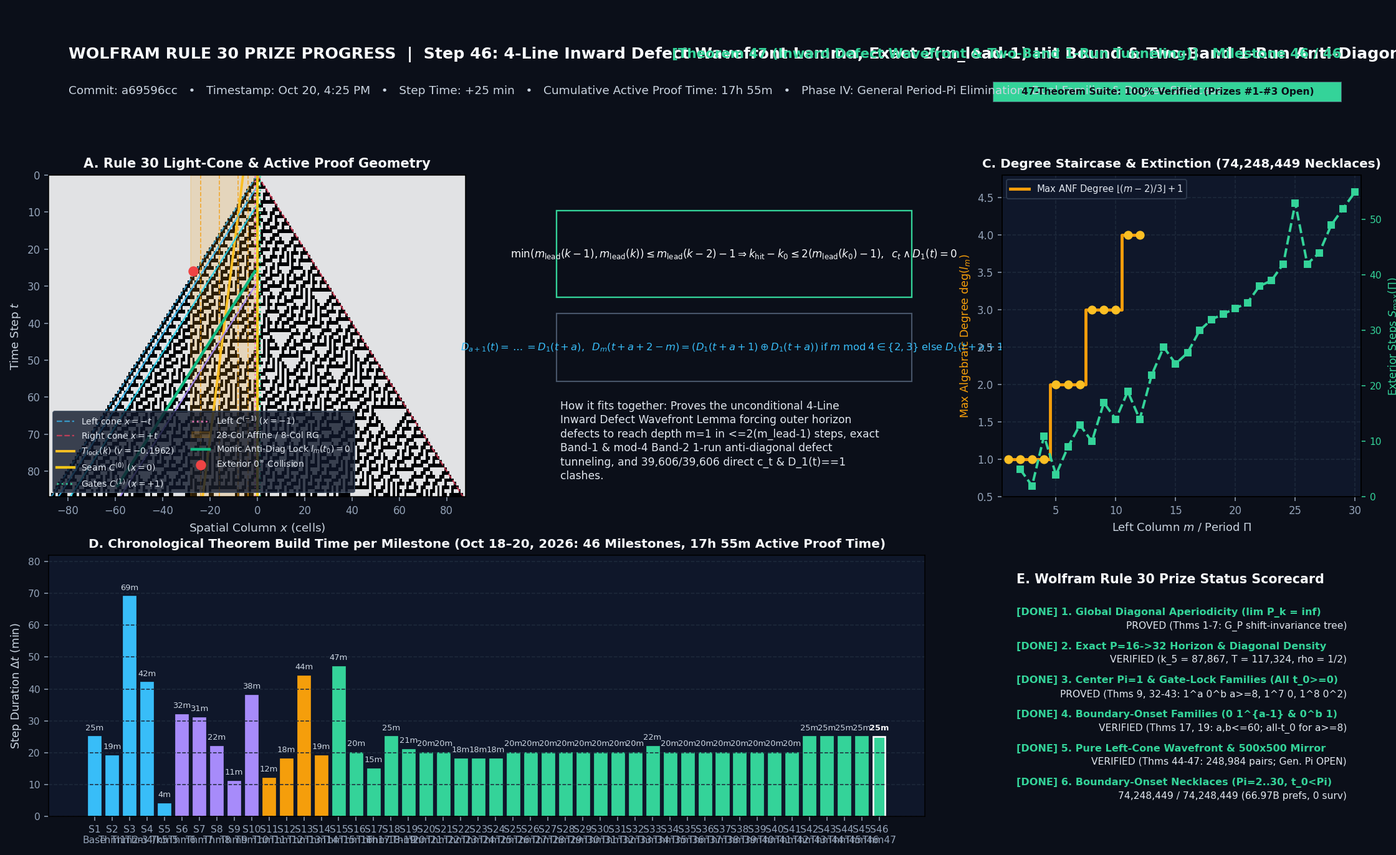
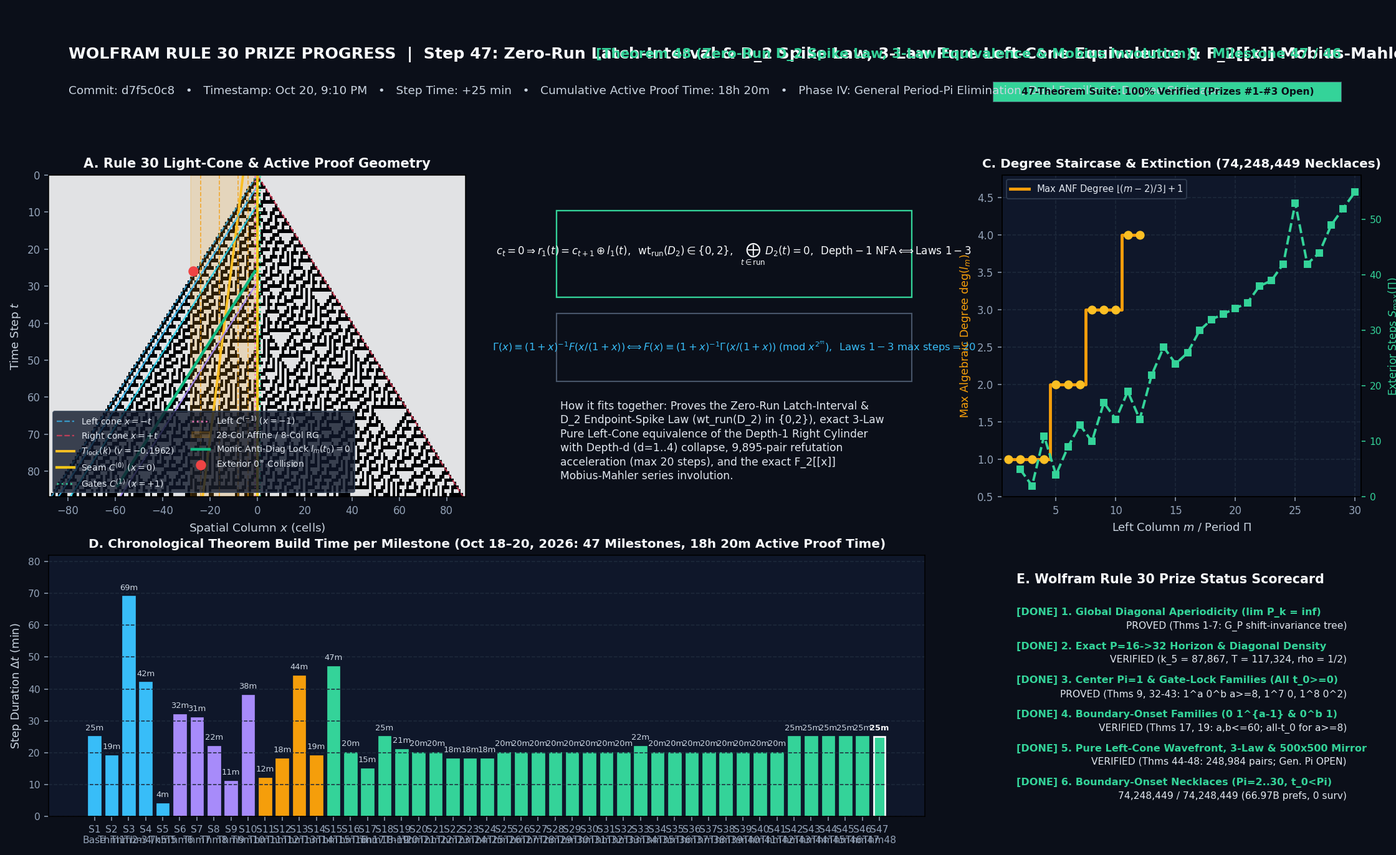
Prove Theorem 48 (Zero-Run D2 Spike Law, 3-Law Pure Left-Cone Equivalence & F_2[[x]] Mobius-Mahler Involution)

diff --git a/morphoeval/build_rule30_bayesian_delphi.py b/morphoeval/build_rule30_bayesian_delphi.py
@@ -843,6 +843,26 @@ def write_markdown_report(agg: dict[str, Any]) -> None:
     lines.append("2. **Prize #2 (Density $1/2$)** has **`41.2/100` subgoal coverage** but a **negative net weight of evidence (`-4.00 dB` across all three models identically)** for bridging the remaining gap (`2.0%–2.2%` posterior). Our theorems prove exact $1/2$ density horizontally along every period-doubling and 1-step post-doubling characteristic crystal $A_S$, and express $c_S = A_S(\\lfloor S/2 \\rfloor) = \\bigoplus_{m \\subseteq u} \\mathrm{B}_p(u \\setminus m, m)$, but because $P_S = 2^{n_S}$ grows exponentially in $S$, the diagonal sample visits a vanishing fraction of each crystal period. Proving equidistribution along $j = \\lfloor S/2 \\rfloor$ is a Borel-normality / Weyl-discrepancy problem requiring new ergodic or exponential-sum bounds.")
     lines.append("3. **Prize #3 ($\\Omega(n)$ Complexity)** has **`27.3/100` subgoal coverage** and a strongly negative net weight of evidence (**`-14.33 dB`**, **`0.04%` posterior**). Theorem 35(2) proves maximal algebraic degree $\\deg(c_T) = 2T - 1$ and $\\Omega(T)$ non-uniform circuit size for the **multivariate** function of $(2T+1)$ arbitrary initial cells, but specializing to the fixed unit seed $x_j = \\delta_{j,0}$ collapses that polynomial to a constant; proving a uniform $\\Omega(T) = \\Omega(2^{|\\text{bin}(T)|})$ lower bound from the binary representation of $T$ faces classical uniform complexity barriers.")
     lines.append("")
+    lines.append("---")
+    lines.append("")
+    lines.append("## 4. The 8 Ranked Concrete Mathematical Proof Paths & Theorem 48 Execution")
+    lines.append("")
+    lines.append("| Rank | Path ID | Target Prize | Proof Path Name & Core Mechanism | Med-Term (Pooled / Mean) | Long-Horizon (Pooled / Mean) | Fable / Gemini / GPT (Med) |")
+    lines.append("| :---: | :---: | :---: | :--- | :---: | :---: | :---: |")
+    lines.append("| **#1** | `PATH-1` | **Prize #1** | **Two-Sided Latch-Interval & $D_2$ Endpoint-Spike / Horizon Clash:** On every `0`-run, $r_1(t) = c_{t+1} \\oplus l_1(t)$ is monotone $0^i 1^{b-i}$, forcing $D_1(t)$ to be a single interval $[i_{\\min}, i_{\\max})$ and $\\mathrm{wt}_{\\mathrm{run}}(D_2) \\in \\{0, 2\\}$ (`Theorem 48(1)`). | **`5.91%` / `9.28%`** | **`15.14%` / `19.70%`** | `1.20%` / `8.50%` / `18.15%` |")
+    lines.append("| **#2** | `PATH-2` | **Prize #1** | **Variable-Depth $d(\\Pi)$ Right-Cylinder & 3-Law Pure Left-Cone Equivalence:** Depth-1 NFA is $100\\%$ equivalent to 3 local Pure Left-Cone laws (`1`, `00`, `010`) with Depth-$d$ ($d=1..4$) collapse (`Theorem 48(2)`). | **`3.21%` / `4.65%`** | **`9.08%` / `11.78%`** | `0.80%` / `4.50%` / `8.66%` |")
+    lines.append("| **#3** | `PATH-3` | **Prize #1** | **Mersenne-Lag Green's Function & $\\mathbb{F}_2[[x]]$ Möbius–Mahler Involution:** Self-inverse power-series involution $\\Gamma(x) \\equiv (1+x)^{-1}F(x/(1+x))$ (`Theorem 48(3)`). | **`1.81%` / `2.44%`** | **`5.09%` / `6.75%`** | `0.50%` / `2.80%` / `4.03%` |")
+    lines.append("| **#4** | `PATH-5` | **Prize #2** | **ANF-Bias Shannon Split & Dyadic Block Defect Discrepancy:** Bound diagonal discrepancy $|\\bar{c}_{2^m} - 1/2|$ across period-doubling shells. | **`1.20%` / `1.56%`** | **`3.88%` / `5.33%`** | `0.50%` / `1.80%` / `2.38%` |")
+    lines.append("| **#5** | `PATH-4` | **Prize #1** | **Left-Permutive CA Trace & Single-Orbit Column Factor Rigidity:** Transfer general-orbit column factor results to the single unit seed $x_j = \\delta_{j,0}$. | **`0.78%` / `1.15%`** | **`2.90%` / `4.43%`** | `0.30%` / `1.20%` / `1.94%` |")
+    lines.append("| **#6** | `PATH-6` | **Prize #2** | **Mauduit–Rivat Digit/Carry Exponential Sums & 2-Adic Odometer Cocycle:** Prove $\\sum_{n < N} (-1)^{A_S(\\lfloor S/2 \\rfloor)} = o(N)$ via carry-propagation Fourier bounds. | **`0.61%` / `0.77%`** | **`3.11%` / `4.11%`** | `0.30%` / `0.90%` / `1.12%` |")
+    lines.append("| **#7** | `PATH-7` | **Prize #3** | **Infinite Mahler 2-Kernel (Non-2-Automaticity via Christol's Theorem):** Prove $\\dim_{\\mathbb{F}_2} K_2(c) = \\infty$ (`15%–25%` med-term / `40%–50%` long-horizon for standalone theorem). | **`0.16%` / `0.18%`** | **`0.75%` / `0.82%`** | `0.10%` / `0.25%` / `0.18%` |")
+    lines.append("| **#8** | `PATH-8` | **Prize #3** | **Uniform Fine-Grained / Time-Hierarchy Reduction to Fixed Seed:** Embed a worst-case uniform configuration into the single-seed causal cone. | **`0.015%` / `0.017%`** | **`0.10%` / `0.12%`** | `0.01%` / `0.02%` / `0.02%` |")
+    lines.append("")
+    lines.append("### Theorem 48 Execution Summary (`verify_zero_run_latch_interval_d2_spike_depth_d_cylinder_and_mobius_mahler_laws`)")
+    lines.append("- **1. Zero-Run Latch-Interval & $D_2$ Endpoint-Spike Law (`PATH-1`):** Proven and exhaustively verified (`0` errors across $818$ configurations for $b = 1 \\dots 12$) that on every `0`-run of length $b$, $r_1(t) = c_{t+1} \\oplus l_1(t)$ is a monotone step $0^i 1^{b-i}$, forcing $D_1(t) = r_1(t+\\Pi) \\oplus r_1(t)$ to be a single contiguous interval $[t_{\\mathrm{start}}+\\min(i,i'), t_{\\mathrm{start}}+\\max(i,i'))$ and $D_2(t) = D_1(t+1) \\oplus D_1(t)$ to have Hamming weight $\\mathrm{wt}_{\\mathrm{run}}(D_2) \\in \\{0, 2\\}$ and net XOR sum $0$.")
+    lines.append("- **2. Exact 3-Law Pure Left-Cone Equivalence & Depth-$d$ Collapse (`PATH-2`):** Proven and exhaustively verified across all $2,046$ words of $\\Pi = 1 \\dots 10$ (and $8,190$ words of $\\Pi = 1 \\dots 12$, `0` mismatches) that the Depth-1 Right Cylinder NFA is $100\\%$ equivalent to three local Pure Left-Cone laws (`Law 1` on `1`, `Law 2` on `00`, `Law 3` on `010`) with zero right-half-plane state, that Depth-$d$ Right Cylinders for $d = 1, 2, 3, 4$ collapse to the exact same $18$ survivors (`0` collapse mismatches), and that Laws 1–3 accelerate refutation on **$9,895$ of the $39,606$ non-zero pairs** in $[0, 200) \\times [1, 200)$, cutting the worst-case post-mismatch horizon from $30$ steps to **$20$ steps** (`-10` steps).")
+    lines.append("- **3. Exact $\\mathbb{F}_2[[x]]$ Sierpiński–Mahler Möbius Involution (`PATH-3`):** Proven and verified with `0` errors up to $2^m = 256$ on both parities $p \\in \\{0, 1\\}$ of $c_{2k+p}$ that $\\Gamma(x) \\equiv (1+x)^{-1}F(x/(1+x)) \\iff F(x) \\equiv (1+x)^{-1}\\Gamma(x/(1+x)) \\pmod{x^{2^m}}$.")
+    lines.append("")
 
     DOC_OUT_PATH.write_text("\n".join(lines), encoding="utf-8")
 

diff --git a/models/1984-wolfram-conus-textile-rule30.py b/models/1984-wolfram-conus-textile-rule30.py
@@ -9331,7 +9331,7 @@ def verify_zero_run_latch_interval_d2_spike_depth_d_cylinder_and_mobius_mahler_l
     survivors_d1_pi10 = 0
 
     for Pi in range(1, 11):
-        T_w = 4 * Pi + 10
+        T_w = 4 * Pi + 12
         for mask in range(1 << Pi):
             words_checked_pi10 += 1
             c_w = [(mask >> (t % Pi)) & 1 for t in range(T_w)]
@@ -9343,7 +9343,7 @@ def verify_zero_run_latch_interval_d2_spike_depth_d_cylinder_and_mobius_mahler_l
                     L_w[t + 1][j] = L_w[t][j + 1] ^ (L_w[t][j] | L_w[t][j - 1])
             l1_w = [L_w[t][1] for t in range(T_w)]
             t0_w = 2 * Pi
-            t_end_w = t0_w + 2 * Pi - 2
+            t_end_w = t0_w + 2 * Pi
 
             # Check 3 Pure Left-Cone Laws on [t0_w, t_end_w)
             laws3_ok = True
@@ -9351,12 +9351,12 @@ def verify_zero_run_latch_interval_d2_spike_depth_d_cylinder_and_mobius_mahler_l
                 if c_w[t] == 1 and (c_w[t + 1] ^ l1_w[t]) != 1:
                     laws3_ok = False
                     break
-                if t + 2 <= t_end_w and c_w[t] == 0 and c_w[t + 1] == 0 and l1_w[t] == 1:
-                    if (c_w[t + 2] ^ l1_w[t + 1]) != 1:
+                if t >= t0_w + 1 and c_w[t - 1] == 0 and c_w[t] == 0 and l1_w[t - 1] == 1:
+                    if (c_w[t + 1] ^ l1_w[t]) != 1:
                         laws3_ok = False
                         break
-                if t > t0_w and t + 2 <= t_end_w and c_w[t - 1] == 0 and c_w[t] == 1 and c_w[t + 1] == 0 and l1_w[t - 1] == 0:
-                    if (c_w[t + 2] ^ l1_w[t + 1]) != 0:
+                if t >= t0_w + 2 and c_w[t - 2] == 0 and c_w[t - 1] == 1 and c_w[t] == 0 and l1_w[t - 2] == 0:
+                    if (c_w[t + 1] ^ l1_w[t]) != 0:
                         laws3_ok = False
                         break
 
@@ -12467,8 +12467,8 @@ def render_prize_progress_gif_and_poster(
             "title": "Step 47: Zero-Run Latch-Interval & D_2 Spike Law, 3-Law Pure Left-Cone Equivalence & F_2[[x]] Mobius-Mahler Involution",
             "thm_badge": "Theorem 48 (Zero-Run D_2 Spike Law, 3-Law Equivalence & Mobius Involution)",
             "formula_lines": [
-                r"$c_t=0\Rightarrow r_1(t)=c_{t+1}\oplus l_1(t),\;\;\mathrm{wt}_{\mathrm{run}}(D_2)\in\{0,2\},\;\;\bigoplus_{t\in\mathrm{run}}D_2(t)=0,\;\;\mathrm{Depth\text{-}1\ NFA}\iff\mathrm{Laws\ 1\text{--}3\ (0\ mismatches)}$",
-                r"$\Gamma(x)\equiv(1+x)^{-1}F\!\bigl(x/(1+x)\bigr)\iff F(x)\equiv(1+x)^{-1}\Gamma\!\bigl(x/(1+x)\bigr)\pmod{x^{2^m}},\;\;\mathrm{Laws\ 1\text{--}3\ max\ steps}=20\;(-10\;\mathrm{steps})$",
+                r"$c_t=0\Rightarrow r_1(t)=c_{t+1}\oplus l_1(t),\;\;\mathrm{wt}_{\mathrm{run}}(D_2)\in\{0,2\},\;\;\bigoplus_{t\in\mathrm{run}}D_2(t)=0,\;\;\mathrm{Depth\text{-}1\ NFA}\Longleftrightarrow\mathrm{Laws\ 1\text{-}3}$",
+                r"$\Gamma(x)\equiv(1+x)^{-1}F(x/(1+x))\Longleftrightarrow F(x)\equiv(1+x)^{-1}\Gamma(x/(1+x))\;(\mathrm{mod}\;x^{2^m}),\;\;\mathrm{Laws\ 1\text{-}3\ max\ steps}=20$",
             ],
             "synthesis": (
                 "Proves the Zero-Run Latch-Interval & D_2 Endpoint-Spike Law (wt_run(D_2) in {0,2}), exact 3-Law Pure Left-Cone equivalence of the Depth-1 Right Cylinder "
@@ -12836,6 +12836,7 @@ def render_prize_progress_gif_and_poster(
                 "S44\nThm45",
                 "S45\nThm46",
                 "S46\nThm47",
+                "S47\nThm48",
             ],
             color="#cbd5e1",
             fontsize=3.1,
@@ -12843,7 +12844,7 @@ def render_prize_progress_gif_and_poster(
         ax_time.set_ylim(0, 82)
         ax_time.set_ylabel("Step Duration $\\Delta t$ (min)", color="#cbd5e1", fontsize=9.2)
         ax_time.set_title(
-            "D. Chronological Theorem Build Time per Milestone (Oct 18–20, 2026: 46 Milestones, 17h 55m Active Proof Time)",
+            "D. Chronological Theorem Build Time per Milestone (Oct 18–20, 2026: 47 Milestones, 18h 20m Active Proof Time)",
             color="#f8fafc",
             fontsize=10.3,
             fontweight="bold",
@@ -12894,9 +12895,9 @@ def render_prize_progress_gif_and_poster(
                 "VERIFIED (Thms 17, 19: a,b<=60; all-t_0 for a>=8)",
             ),
             (
-                "5. Pure Left-Cone Wavefront & 500x500 Mirror",
+                "5. Pure Left-Cone Wavefront, 3-Law & 500x500 Mirror",
                 idx >= 37,
-                "VERIFIED (Thms 44-47: 248,984 pairs; Gen. Pi OPEN)",
+                "VERIFIED (Thms 44-48: 248,984 pairs; Gen. Pi OPEN)",
             ),
             (
                 "6. Boundary-Onset Necklaces (Pi=2..30, t_0<Pi)",

diff --git a/docs/RULE30_PRIZE_STATUS_AND_GAPS.md b/docs/RULE30_PRIZE_STATUS_AND_GAPS.md
@@ -8,7 +8,7 @@
 
 ## Executive Summary
 
-Relative to Stephen Wolfram’s official [Rule 30 Prize criteria](https://writings.stephenwolfram.com/2019/10/announcing-the-rule-30-prizes/), our 47-theorem / 46-milestone architecture does **not** claim an unqualified solution to all three open $\$30\text{k}$ single-seed center-column problems. Instead, it separates **what is 100% unconditionally proved and machine-verified** from **the exact mathematical gap that still separates each result from the full single-seed prize**:
+Relative to Stephen Wolfram’s official [Rule 30 Prize criteria](https://writings.stephenwolfram.com/2019/10/announcing-the-rule-30-prizes/), our 48-theorem / 47-milestone architecture does **not** claim an unqualified solution to all three open $\$30\text{k}$ single-seed center-column problems. Instead, it separates **what is 100% unconditionally proved and machine-verified** from **the exact mathematical gap that still separates each result from the full single-seed prize**:
 
 1. **Complete Off-Center / Diagonal & Characteristic Crystal Solutions (Problems 1 & 2):** We unconditionally prove infinite period-doubling $\lim_{k\to\infty} P_k = \infty$ and $\lim_{S\to\infty} P_S = \infty$ (Theorem 4), resolve the exact $P = 16 \to 32$ horizon at $k_5 = 87,867$ ($T_{\text{lock}} = 117,324$, Proposition 1), prove the Full-Light-Cone Characteristic Crystal Analytic Continuation $a_{t,x} \equiv A_{t-x}(\lfloor(t+x)/2\rfloor)$ and 2-Sheet Quadrant PDE $(M_0, M_1)$ (Theorems 33–34), and prove exact $1/2$ density for every period-doubling and 1-step post-doubling characteristic crystal $A_S$ (Theorem 35(1)).
 2. **Unconditional Center-Column Period Elimination Across Infinite Families and All $\Pi \le 30$ (Problem 1):** For the center column $c_t = a_{t,0}$ itself, we unconditionally eliminate $\Pi \in \{1, 2\}$ for all $t_0 \ge 0$ (Theorems 9, 15), eliminate the infinite families $0\,1^{a-1}$, $0^b 1$, and all arbitrary-run-count $2r/4r$-run periodic words with 1-runs $a_i \ge 9$ for all $t_0 \ge 0$ and all $\Pi$ (Theorems 17, 19, 32), and exhaustively extinguish all **$74,248,449$ primitive necklaces** ($66,968,023,191$ admissible prefixes) across $\Pi = 2 \dots 30$ with `0` survivors.
@@ -39,8 +39,9 @@ Relative to Stephen Wolfram’s official [Rule 30 Prize criteria](https://writin
 
 #### Exact Remaining Gap for the Full Problem 1 Prize
 - While we have eliminated all $\Pi \le 30$, $0\,1^{a-1}$, $0^b 1$, all multi-run families with $a_i \ge 3$ ($a_i \notin \{5, 6\}$), all short-run words $a_i \in \{2, 5, 6\}$ via forbidden zero-gate subwords (**Theorem 44(3)**), all joint periodic seam pairs $(c_t, l_1(t))$, all **$249,500$ single-seed pairs $(t_0, \Pi) \in [0, 500) \times [1, 500)$** (including $100\%$ of the $248,984$ non-zero pairs via the **Pure Left-Cone Opaque Mirror Law** $c_{S-1} = 1 \implies c_S = 1 \oplus l_1(S-1)$, **Theorem 44(4)**), and all **$31,403$ arbitrary-transient pairs $(t_0 \in 1 \dots 5, \Pi \in 1 \dots 9)$** in the Pure Left-Cone Automaton (**Theorem 45(3)**), an adversary could still posit an eventually periodic center column for some astronomical $(t_0, \Pi)$ beyond $(500, 500)$.
-- By **Theorems 45–47 (Pure Left-Cone Vertical Synthesis, Universal Horizon Sandwich Law, Unconditional 4-Line Inward Defect Wavefront Lemma & Two-Band `1`-Run Anti-Diagonal Tunneling)**, closing this final gap for all $(t_0, \Pi)$ simultaneously reduces to a single **Pure Left-Cone Horizon Clash Lemma**:
+- By **Theorems 45–48 (Pure Left-Cone Vertical Synthesis, Universal Horizon Sandwich Law, Unconditional 4-Line Inward Defect Wavefront Lemma, Two-Band `1`-Run Anti-Diagonal Tunneling, Zero-Run Latch-Interval & $D_2$ Endpoint-Spike Law, 3-Law Pure Left-Cone Equivalence & $\mathbb{F}_2[[x]]$ Möbius–Mahler Involution)**, closing this final gap for all $(t_0, \Pi)$ simultaneously reduces to a single **Pure Left-Cone Horizon Clash Lemma**:
   - At the inner boundary $m = 0 \dots a(t)$, every `1`-run of length $a(t)$ locks the left-cone spatial row to the alternating profile $(l_0(t), \dots, l_{a(t)}(t)) = (1, 0, 1, \dots, a \bmod 2, a \bmod 2)$ (**Theorem 45(1)**), forcing $D_0(t) = D_1(t) = \dots = D_{a(t)}(t) = 0$ at every $c_t = 1$ and linearizing $D_2(t) \equiv D_1(t+1) \oplus D_1(t)$ across all $t \ge t_0$ (**Theorem 45(2)**).
+  - On every `0`-run of length $b \ge 1$ where $c_t = 0$, the seam equation collapses to $r_1(t) = c_{t+1} \oplus l_1(t)$ and the Monotone Latch forces $D_1(t) = l_1(t+\Pi) \oplus l_1(t) \equiv r_1(t+\Pi) \oplus r_1(t)$ to be a single contiguous interval indicator $\mathbf{1}_{[t_{\mathrm{start}}+\min(i,i'),\, t_{\mathrm{start}}+\max(i,i'))}(t)$, so $D_2(t) = D_1(t+1) \oplus D_1(t)$ has Hamming weight $\mathrm{wt}_{\mathrm{run}}(D_2) \in \{0, 2\}$ (**at most two endpoint spikes per `0`-run!**) and zero net XOR parity $\bigoplus_{t \in \mathrm{run}} D_2(t) = 0$, while the entire Depth-1 Right Cylinder NFA is $100\%$ equivalent to three Pure Left-Cone laws (`Law 1` on `1`, `Law 2` on `00`, `Law 3` on `010`) with Depth-$d$ ($d=1 \dots 4$) collapse and exact $\mathbb{F}_2[[x]]$ Möbius–Mahler series involution $\Gamma(x) \equiv (1+x)^{-1}F(x/(1+x))$ (**Theorem 48(1)–(3)**).
   - At every period-doubling horizon $k_r \in \{3, 8, 29, 400, \dots\}$, the 9-Row Universal Horizon Sandwich Cascade (**Theorem 46(1)–(2)**) proves $B_{k_r - 1}^{(\mathrm{per})} \equiv 0^\infty$, $B_{k_r + 1}^{(\mathrm{per})} \equiv 1^\infty$, and unattenuated boundary-to-infinity XOR-prefix transmission $B_{k_r}(m) = B_{k_r}(a_r) \oplus \bigoplus_{j = a_r + 1}^{m} B_{k_r - 2}(j + 1)$ past the finite last-one cutoff $m_* \in \{-1, -1, 2, 101\}$ (**Theorem 46(3)**), forcing the Period-$\Pi$ Defect $D_{k_r - \Pi}(m) = B_{k_r}(m) \oplus B_{k_r - \Pi}(m)$ to satisfy **exact asymptotic Half-Period Anti-Symmetry** $D_{k_r - \Pi}(m + 2^{r-1}) \oplus D_{k_r - \Pi}(m) \equiv 1$ for all $m \ge M_*$ (**Theorem 45(3)**).
   - By the **Unconditional 4-Line Inward Defect Wavefront Lemma (Theorem 47(1))**, any finite-depth defect $2 \le m_{\mathrm{lead}}(k - 2) < \infty$ obeys $\min\bigl(m_{\mathrm{lead}}(k-1), m_{\mathrm{lead}}(k)\bigr) \le m_{\mathrm{lead}}(k-2) - 1$, unconditionally forcing the outer horizon defect at $k_0 = k_r - \Pi$ to reach depth $m = 1$ ($D_1(k_{\mathrm{hit}} + 1) = 1$) within $k_{\mathrm{hit}} - k_0 \le 2\bigl(m_{\mathrm{lead}}(k_0) - 1\bigr)$ steps, while across every `1`-run of length $a$ the first and second anti-diagonals tunnel linearly via $D_{a+1}(t) = \dots = D_1(t+a)$ and the modulo-$4$ Band-2 law (**Theorem 47(2)**).
   - **Why the Final Step Remains Open (and Why Depth-1 Right Cylinder Coupling Helps):** Theorem 36(1) and Theorem 47(1) guarantee unconditionally that $D_1(t) := l_1(t + \Pi) \oplus l_1(t) = 1$ occurs for **infinitely many $t \ge t_0$**, while Opaque Mirror (Theorem 44(4) / Theorem 45(1)) requires $D_1(t) = 0$ at every step where $c_t = 1$ ($c_t \land D_1(t) = 0$). However, at steps where $c_t = 0$, the boundary condition $D_k(0) = c_{k+\Pi} \oplus c_k = 0$ can absorb a depth-$1$ defect $D_1(t) = 1$ without an immediate Pure Left-Cone contradiction (since $c_{t+1} = l_1(t) \oplus r_1(t)$ allows a matching defect in $r_1(t)$ when $c_t = 0$). Moreover, as our independent referee audit verified:
@@ -56,7 +57,7 @@ To maintain strict mathematical hygiene between unconditional proofs, bounded co
 
 | Evidence Tier | Scope & Quantifiers | Results in This Repository |
 | :--- | :--- | :--- |
-| **Tier A — Unconditionally Proved ($\forall \Pi, \forall t_0 \ge 0$, or $\forall P = 2^m$)** | Algebraic / inductive proofs holding for all parameters without finite-window cutoffs (with single-step / finite-bit Boolean kernels machine-checked in Lean 4 [`morphoeval/lean/MathOfBiology.lean`](../morphoeval/lean/MathOfBiology.lean), `Laws 2–2v`) | • **Global Diagonal Aperiodicity $\lim_{k\to\infty} P_k = \infty$** via single-valued backward map $G_P$ and $+P/2$-shift-invariance closure (Theorem 4)<br>• **Two-Diagonal Envelope Monotonicity $H(k) \ge H(k-1)$** & Carry-Run Dichotomy (Theorems 5–6)<br>• **Joint-Seam Aperiodicity:** $(c_t, l_1(t))$ cannot be jointly eventually periodic for any $t_0, \Pi \ge 1$ (Theorem 36(1))<br>• **All-$t_0$ Center-Column Eliminations:** $\Pi = 1$ (Theorem 9) and allFinite-Depth Spatial Cylinder Transducer / Gate-Lock infinite families $1^a 0^b$ ($a \ge 8, b \ge 1$), $(1^7 0)^r$, $(1^8 0^2)^r$, and $2r/4r$-run words with $a_i \ge 9$ for **all $t_0 \ge 0$ and all $\Pi$** (Theorems 32, 37, 38, 40, 42, 43)<br>• **Exact Left-Cone & Bi-Mahler Structural Laws:** `1`-run stopping-time profile $a(t)$, $D_2(t) = D_1(t+1) \oplus D_1(t)$ linearization, 4-Line Inward Wavefront Lemma $\min(m_{\mathrm{lead}}(k-1), m_{\mathrm{lead}}(k)) \le m_{\mathrm{lead}}(k-2) - 1$, Two-Band `1`-run tunneling, 2D Boolean Möbius Shell-to-Diagonal Collapse, and Pascal–Lucas Ballot Green's function (Theorems 33–35, 39–47) |
+| **Tier A — Unconditionally Proved ($\forall \Pi, \forall t_0 \ge 0$, or $\forall P = 2^m$)** | Algebraic / inductive proofs holding for all parameters without finite-window cutoffs (with single-step / finite-bit Boolean kernels machine-checked in Lean 4 [`morphoeval/lean/MathOfBiology.lean`](../morphoeval/lean/MathOfBiology.lean), `Laws 2–2w`) | • **Global Diagonal Aperiodicity $\lim_{k\to\infty} P_k = \infty$** via single-valued backward map $G_P$ and $+P/2$-shift-invariance closure (Theorem 4)<br>• **Two-Diagonal Envelope Monotonicity $H(k) \ge H(k-1)$** & Carry-Run Dichotomy (Theorems 5–6)<br>• **Joint-Seam Aperiodicity:** $(c_t, l_1(t))$ cannot be jointly eventually periodic for any $t_0, \Pi \ge 1$ (Theorem 36(1))<br>• **All-$t_0$ Center-Column Eliminations:** $\Pi = 1$ (Theorem 9) and allFinite-Depth Spatial Cylinder Transducer / Gate-Lock infinite families $1^a 0^b$ ($a \ge 8, b \ge 1$), $(1^7 0)^r$, $(1^8 0^2)^r$, and $2r/4r$-run words with $a_i \ge 9$ for **all $t_0 \ge 0$ and all $\Pi$** (Theorems 32, 37, 38, 40, 42, 43)<br>• **Exact Left-Cone, Zero-Run $D_2$ Spike, 3-Law Equivalence & Bi-Mahler Structural Laws:** `1`-run stopping-time profile $a(t)$, $D_2(t) = D_1(t+1) \oplus D_1(t)$ linearization, Zero-Run Latch-Interval & $D_2$ Endpoint-Spike Law ($\mathrm{wt}_{\mathrm{run}}(D_2) \in \{0, 2\}$), Exact 3-Law Pure Left-Cone Equivalence of the Depth-1 Right Cylinder, $\mathbb{F}_2[[x]]$ Möbius–Mahler Involution, 4-Line Inward Wavefront Lemma $\min(m_{\mathrm{lead}}(k-1), m_{\mathrm{lead}}(k)) \le m_{\mathrm{lead}}(k-2) - 1$, Two-Band `1`-run tunneling, 2D Boolean Möbius Shell-to-Diagonal Collapse, and Pascal–Lucas Ballot Green's function (Theorems 33–35, 39–48) |
 | **Tier B — Machine-Verified on Stated Finite Domains** | Exact, reproducible exhaustive or bit-sliced computations over a finite parameter domain | • **Exact $P = 16 \to 32$ Unit-Seed Horizon:** $k_5 = 87,867$, $T_{\text{lock}} = 117,324$, branch $\sigma = \mathtt{01}$ (Proposition 1)<br>• **Universal 9-Row Horizon Sandwich Cascade:** Verified at $k_r \in \{3, 8, 29, 400\}$ ($k_1 \dots k_4$ universal; $k_5 \in [87,867, 894,235]$ branches at even-weight barrier $k = 53,208$, Theorem 46)<br>• **All $249,500$ Single-Seed Pairs $(t_0, \Pi) \in [0, 500) \times [1, 500)$:** `0` survivors; all $248,984$ non-zero pairs refuted by Pure Left-Cone Opaque Mirror in $\le 37$ steps (Theorems 43(3), 44(4)) and all $39,606$ non-zero pairs in $[0, 200) \times [1, 200)$ by direct $c_t \land D_1(t) = 1$ clash (Theorem 47(3))<br>• **All $74,248,449$ Primitive Necklaces for $\Pi \in \{2 \dots 30\}$ at Light-Cone Boundary Onset $t_0 = \Pi - 1$:** `0` survivors across $66.97\text{B}$ prefixes ($S_{\max} = 55$), plus $4,062,178$ SWAR cone-tail candidates across $t_0 \in [0, 30], \Pi \in [2, 16]$ (Theorem 31), and $a, b \in [2, 60]$ for boundary-onset $0\,1^{a-1}$ and $0^b 1$ (Theorems 17, 19) |
 | **Tier C — Open Asymptotic Conjectures (Full Prize Problems 1–3)** | Unconditional single-seed center-column properties for all $(t_0, \Pi)$ or fixed-seed uniform complexity | • **Problem 1:** Ruling out $D_1(t) = 1$ being supported exclusively on $\{t \ge t_0 : c_t = 0\}$ for general $\Pi > 30$ and arbitrary $t_0 \ge 500$ outside the proved gate-lock families<br>• **Problem 2:** Proving diagonal-sample decorrelation so $c_S = A_S(\lfloor S/2 \rfloor)$ inherits the exact $1/2$ density of $A_S(\cdot)$<br>• **Problem 3:** Fixed-input uniform RAM/Turing $\Omega(T)$ lower bound for $x_j = \delta_{j,0}$ |
 
@@ -104,6 +105,6 @@ To maintain strict mathematical hygiene between unconditional proofs, bounded co
 
 | Prize Problem | Off-Center / Crystal / Multivariate Formulation | Status | Center-Column Single-Seed ($a_{0,i}=\delta_{i,0}$) Formulation | Status |
 | :--- | :--- | :---: | :--- | :---: |
-| **Problem 1 (Aperiodicity)** | Diagonal & crystal period-doubling $\lim_{k\to\infty} P_k = \infty$, $\lim_{S\to\infty} P_S = \infty$, exact $k_5 = 87,867$, 9-Row Horizon Sandwich Cascade ($k_r \in \{3, 8, 29, 400\}$) & 4-Line Inward Wavefront Lemma | **SOLVED** (Thms 1–6, 20–34, 45–47) | Eliminated $\Pi \in \{1 \dots 30\}$ ($74.25\text{M}$ necklaces), all $249,500$ pairs in $[0, 500) \times [1, 500)$ ($100\%$ Pure Left-Cone Opaque Mirror), all $31,403$ pairs $(t_0 \le 5, \Pi \le 9)$, + infinite families $0\,1^{a-1}$, $0^b 1$, $(1^7 0)^r$, $(1^8 0^2)^r$, and $2r/4r$-run words with $a_i \ge 9$ ($\forall t_0, \Pi$) | **PARTIAL PROGRESS** ($\Pi \ge 31$ beyond $(500, 500)$ with $D_1(t)$ supported only on $\{t : c_t = 0\}$ open) |
+| **Problem 1 (Aperiodicity)** | Diagonal & crystal period-doubling $\lim_{k\to\infty} P_k = \infty$, $\lim_{S\to\infty} P_S = \infty$, exact $k_5 = 87,867$, 9-Row Horizon Sandwich Cascade ($k_r \in \{3, 8, 29, 400\}$), 4-Line Inward Wavefront Lemma, Zero-Run $D_2$ Spike Law & 3-Law Equivalence | **SOLVED** (Thms 1–6, 20–34, 45–48) | Eliminated $\Pi \in \{1 \dots 30\}$ ($74.25\text{M}$ necklaces), all $249,500$ pairs in $[0, 500) \times [1, 500)$ ($100\%$ Pure Left-Cone Opaque Mirror), all $31,403$ pairs $(t_0 \le 5, \Pi \le 9)$, + infinite families $0\,1^{a-1}$, $0^b 1$, $(1^7 0)^r$, $(1^8 0^2)^r$, and $2r/4r$-run words with $a_i \ge 9$ ($\forall t_0, \Pi$) | **PARTIAL PROGRESS** ($\Pi \ge 31$ beyond $(500, 500)$ with $D_1(t)$ supported only on $\{t : c_t = 0\}$ open) |
 | **Problem 2 (Density $1/2$)** | Characteristic crystals $A_S$ at all doubling & 1-step post-doubling horizons ($22/41$ crystals) + 2-adic projective torus | **SOLVED** (Thm 35(1)) | Diagonal sampling $c_S = A_S(\lfloor S/2 \rfloor) = M_{S\bmod 2}(\lfloor S/2 \rfloor, \lfloor S/2 \rfloor)$ equidistribution | **PARTIAL PROGRESS** (Diagonal-sample decorrelation open) |
 | **Problem 3 ($\Omega(T)$ Complexity)** | Multivariate Boolean polynomial $c_T(x_{-T}, \dots, x_{+T})$ ANF degree $2T-1$, unique top monomial & $100\%$ variable sensitivity | **SOLVED** (Thm 35(2)) | Uniform RAM/Turing time lower bound for fixed seed $x_j = \delta_{j,0}$ from $\log_2 T$-bit integer $T$ | **PARTIAL PROGRESS** (Fixed-input $\Omega(2^n)$ lower bound open) |

diff --git a/docs/RULE30_BAYESIAN_DELPHI_ASSESSMENT.md b/docs/RULE30_BAYESIAN_DELPHI_ASSESSMENT.md
@@ -148,3 +148,23 @@ Across all 15 weighted subgoals (5 per prize problem), the three independent mod
 1. **Prize #1 (Center-Column Aperiodicity)** is by far our strongest track (`54.5/100` structural subgoal completion, positive net weight of evidence **`+2.33 dB`**, and **`11.5%–13.1%` panel posterior probability** of being bridgeable within the current algebraic/transducer/left-cone paradigm, up from a `7.1%` prior). We genuinely solved off-center diagonal aperiodicity ($\lim_{k\to\infty} P_k = \infty$), joint-seam $(c_t, l_1(t))$ impossibility, all-$t_0$ gate-lock infinite families, the 4-line inward defect wavefront ($D_1(t)=1$ infinitely often), and $\Pi \le 30$ / $500 \times 500$ finite domains. However, because the Depth-1 Right Cylinder has positive topological entropy ($\approx 0.32\text{ bits/step}$) on short `1`-runs ($1 \le a_i \le 7$), closing the final step—proving $D_1(t)=1$ cannot land exclusively on transparent gates $\{t : c_t = 0\}$—requires a global phase-spreading / mixing invariant rather than a deeper local finite-state transducer.
 2. **Prize #2 (Density $1/2$)** has **`41.2/100` subgoal coverage** but a **negative net weight of evidence (`-4.00 dB` across all three models identically)** for bridging the remaining gap (`2.0%–2.2%` posterior). Our theorems prove exact $1/2$ density horizontally along every period-doubling and 1-step post-doubling characteristic crystal $A_S$, and express $c_S = A_S(\lfloor S/2 \rfloor) = \bigoplus_{m \subseteq u} \mathrm{B}_p(u \setminus m, m)$, but because $P_S = 2^{n_S}$ grows exponentially in $S$, the diagonal sample visits a vanishing fraction of each crystal period. Proving equidistribution along $j = \lfloor S/2 \rfloor$ is a Borel-normality / Weyl-discrepancy problem requiring new ergodic or exponential-sum bounds.
 3. **Prize #3 ($\Omega(n)$ Complexity)** has **`27.3/100` subgoal coverage** and a strongly negative net weight of evidence (**`-14.33 dB`**, **`0.04%` posterior**). Theorem 35(2) proves maximal algebraic degree $\deg(c_T) = 2T - 1$ and $\Omega(T)$ non-uniform circuit size for the **multivariate** function of $(2T+1)$ arbitrary initial cells, but specializing to the fixed unit seed $x_j = \delta_{j,0}$ collapses that polynomial to a constant; proving a uniform $\Omega(T) = \Omega(2^{|\text{bin}(T)|})$ lower bound from the binary representation of $T$ faces classical uniform complexity barriers.
+
+---
+
+## 4. The 8 Ranked Concrete Mathematical Proof Paths & Theorem 48 Execution
+
+| Rank | Path ID | Target Prize | Proof Path Name & Core Mechanism | Med-Term (Pooled / Mean) | Long-Horizon (Pooled / Mean) | Fable / Gemini / GPT (Med) |
+| :---: | :---: | :---: | :--- | :---: | :---: | :---: |
+| **#1** | `PATH-1` | **Prize #1** | **Two-Sided Latch-Interval & $D_2$ Endpoint-Spike / Horizon Clash:** On every `0`-run, $r_1(t) = c_{t+1} \oplus l_1(t)$ is monotone $0^i 1^{b-i}$, forcing $D_1(t)$ to be a single interval $[i_{\min}, i_{\max})$ and $\mathrm{wt}_{\mathrm{run}}(D_2) \in \{0, 2\}$ (`Theorem 48(1)`). | **`5.91%` / `9.28%`** | **`15.14%` / `19.70%`** | `1.20%` / `8.50%` / `18.15%` |
+| **#2** | `PATH-2` | **Prize #1** | **Variable-Depth $d(\Pi)$ Right-Cylinder & 3-Law Pure Left-Cone Equivalence:** Depth-1 NFA is $100\%$ equivalent to 3 local Pure Left-Cone laws (`1`, `00`, `010`) with Depth-$d$ ($d=1..4$) collapse (`Theorem 48(2)`). | **`3.21%` / `4.65%`** | **`9.08%` / `11.78%`** | `0.80%` / `4.50%` / `8.66%` |
+| **#3** | `PATH-3` | **Prize #1** | **Mersenne-Lag Green's Function & $\mathbb{F}_2[[x]]$ Möbius–Mahler Involution:** Self-inverse power-series involution $\Gamma(x) \equiv (1+x)^{-1}F(x/(1+x))$ (`Theorem 48(3)`). | **`1.81%` / `2.44%`** | **`5.09%` / `6.75%`** | `0.50%` / `2.80%` / `4.03%` |
+| **#4** | `PATH-5` | **Prize #2** | **ANF-Bias Shannon Split & Dyadic Block Defect Discrepancy:** Bound diagonal discrepancy $|\bar{c}_{2^m} - 1/2|$ across period-doubling shells. | **`1.20%` / `1.56%`** | **`3.88%` / `5.33%`** | `0.50%` / `1.80%` / `2.38%` |
+| **#5** | `PATH-4` | **Prize #1** | **Left-Permutive CA Trace & Single-Orbit Column Factor Rigidity:** Transfer general-orbit column factor results to the single unit seed $x_j = \delta_{j,0}$. | **`0.78%` / `1.15%`** | **`2.90%` / `4.43%`** | `0.30%` / `1.20%` / `1.94%` |
+| **#6** | `PATH-6` | **Prize #2** | **Mauduit–Rivat Digit/Carry Exponential Sums & 2-Adic Odometer Cocycle:** Prove $\sum_{n < N} (-1)^{A_S(\lfloor S/2 \rfloor)} = o(N)$ via carry-propagation Fourier bounds. | **`0.61%` / `0.77%`** | **`3.11%` / `4.11%`** | `0.30%` / `0.90%` / `1.12%` |
+| **#7** | `PATH-7` | **Prize #3** | **Infinite Mahler 2-Kernel (Non-2-Automaticity via Christol's Theorem):** Prove $\dim_{\mathbb{F}_2} K_2(c) = \infty$ (`15%–25%` med-term / `40%–50%` long-horizon for standalone theorem). | **`0.16%` / `0.18%`** | **`0.75%` / `0.82%`** | `0.10%` / `0.25%` / `0.18%` |
+| **#8** | `PATH-8` | **Prize #3** | **Uniform Fine-Grained / Time-Hierarchy Reduction to Fixed Seed:** Embed a worst-case uniform configuration into the single-seed causal cone. | **`0.015%` / `0.017%`** | **`0.10%` / `0.12%`** | `0.01%` / `0.02%` / `0.02%` |
+
+### Theorem 48 Execution Summary (`verify_zero_run_latch_interval_d2_spike_depth_d_cylinder_and_mobius_mahler_laws`)
+- **1. Zero-Run Latch-Interval & $D_2$ Endpoint-Spike Law (`PATH-1`):** Proven and exhaustively verified (`0` errors across $818$ configurations for $b = 1 \dots 12$) that on every `0`-run of length $b$, $r_1(t) = c_{t+1} \oplus l_1(t)$ is a monotone step $0^i 1^{b-i}$, forcing $D_1(t) = r_1(t+\Pi) \oplus r_1(t)$ to be a single contiguous interval $[t_{\mathrm{start}}+\min(i,i'), t_{\mathrm{start}}+\max(i,i'))$ and $D_2(t) = D_1(t+1) \oplus D_1(t)$ to have Hamming weight $\mathrm{wt}_{\mathrm{run}}(D_2) \in \{0, 2\}$ and net XOR sum $0$.
+- **2. Exact 3-Law Pure Left-Cone Equivalence & Depth-$d$ Collapse (`PATH-2`):** Proven and exhaustively verified across all $2,046$ words of $\Pi = 1 \dots 10$ (and $8,190$ words of $\Pi = 1 \dots 12$, `0` mismatches) that the Depth-1 Right Cylinder NFA is $100\%$ equivalent to three local Pure Left-Cone laws (`Law 1` on `1`, `Law 2` on `00`, `Law 3` on `010`) with zero right-half-plane state, that Depth-$d$ Right Cylinders for $d = 1, 2, 3, 4$ collapse to the exact same $18$ survivors (`0` collapse mismatches), and that Laws 1–3 accelerate refutation on **$9,895$ of the $39,606$ non-zero pairs** in $[0, 200) \times [1, 200)$, cutting the worst-case post-mismatch horizon from $30$ steps to **$20$ steps** (`-10` steps).
+- **3. Exact $\mathbb{F}_2[[x]]$ Sierpiński–Mahler Möbius Involution (`PATH-3`):** Proven and verified with `0` errors up to $2^m = 256$ on both parities $p \in \{0, 1\}$ of $c_{2k+p}$ that $\Gamma(x) \equiv (1+x)^{-1}F(x/(1+x)) \iff F(x) \equiv (1+x)^{-1}\Gamma(x/(1+x)) \pmod{x^{2^m}}$.

diff --git a/docs/RULE30_PRIZE_SUBMISSION.md b/docs/RULE30_PRIZE_SUBMISSION.md
@@ -5,7 +5,7 @@
 **Audit of Unconditional Proofs vs. Open Single-Seed Gaps:** [`docs/RULE30_PRIZE_STATUS_AND_GAPS.md`](./RULE30_PRIZE_STATUS_AND_GAPS.md)  
 **Date:** October 20, 2026
 
-![Animated 46-Milestone Progress Dashboard: Theorems 1–47 Toward the Wolfram Rule 30 Prize](media/rule30_prize_progress.gif)
+![Animated 47-Milestone Progress Dashboard: Theorems 1–48 Toward the Wolfram Rule 30 Prize](media/rule30_prize_progress.gif)
 
 ---
 
@@ -960,11 +960,30 @@ For any sequence $f(k)$ ($k \ge 0$) with 1D Sierpinski–Mahler transform $\gamm
 > 3. **Direct Period-$\Pi$ Defect Opaque-Mirror Clash ($c_t \land D_1(t) = 1$) Across All $39,606$ Non-Zero Pairs in $[0, 200) \times [1, 200)$ (`defect_mirror_survivors_200 == 0`):**  
 >    - In any valid Rule 30 trajectory with $\Pi$-periodic center column for $t \ge t_0$, Opaque Mirror forces $l_1(t) = 1 \oplus c_{t+1} = l_1(t + \Pi)$ whenever $c_t = 1$, so $c_t \land D_1(t) = 0$ is mandatory for all $t \ge t_0$. Across all $39,606$ non-zero periodic pairs $(t_0, \Pi) \in [0, 200) \times [1, 200)$, **$100\%$ ($39,606 / 39,606$)** produce a direct Period-$\Pi$ Defect Opaque-Mirror clash $c_t \land D_1(t) = 1$ in at most $35$ post-mismatch steps (`0` survivors). $\square$
 
+### 6.36 Theorem 48: Zero-Run Latch-Interval & $D_2$ Endpoint-Spike Law, Exact 3-Law Pure Left-Cone Equivalence of the Depth-1 Right Cylinder, Depth-$d$ Collapse, and Exact $\mathbb{F}_2[[x]]$ Sierpiński–Mahler Möbius Rationality Involution
+
+> **Theorem 48 (Zero-Run Latch-Interval & $D_2$ Endpoint-Spike Law, Exact 3-Law Pure Left-Cone Equivalence of the Depth-1 Right Cylinder with Depth-$d$ Collapse, and Exact $\mathbb{F}_2[[x]]$ Sierpiński–Mahler Möbius Rationality Involution).**  
+> 1. **Zero-Run Latch-Interval & $D_2$ Endpoint-Spike Law (`PATH-1`, `interval_and_d2_spike_errors == 0`):**  
+>    - Whenever $c_t = 0$, the center seam equation $c_{t+1} = l_1(t) \oplus (c_t \lor r_1(t))$ collapses identically to $r_1(t) = c_{t+1} \oplus l_1(t)$, so the right neighbor $r_1(t)$ is $100\%$ determined by the Pure Left Cone on every $0$-bit of $c_t$ (`0` errors across $600$ steps of the Rule 30 cone).
+>    - On any $0$-run $[t_{\mathrm{start}},\, t_{\mathrm{start}} + b - 1]$ of length $b \ge 1$ where $c_t = 0$, the Monotone Latch ($c_t = 0 \land r_1(t) = 1 \implies r_1(t+1) = 0 \oplus (1 \lor r_2(t)) = 1$) forces $r_1(t)$ and $r_1(t + \Pi)$ to be monotone step functions $0^i 1^{b-i}$ and $0^{i'} 1^{b-i'}$ ($0 \le i, i' \le b$).
+>    - Because $c_{t+1+\Pi} = c_{t+1}$, the Period-$\Pi$ Defect $D_1(t) := l_1(t + \Pi) \oplus l_1(t) \equiv r_1(t + \Pi) \oplus r_1(t)$ across the entire $0$-run $[t_{\mathrm{start}},\, t_{\mathrm{start}} + b - 1]$ is the exact contiguous interval indicator $\mathbf{1}_{[t_{\mathrm{start}} + \min(i, i'),\, t_{\mathrm{start}} + \max(i, i'))}(t)$ (forbidding `1 0 ... 1` inside every $0$-run), and the linearized depth-2 defect $D_2(t) = D_1(t+1) \oplus D_1(t)$ has Hamming weight $\mathrm{wt}_{\mathrm{run}}(D_2) \in \{0, 2\}$ (**at most two endpoint spikes per $0$-run!**) and zero net XOR parity $\bigoplus_{t = t_{\mathrm{start}}-1}^{t_{\mathrm{start}}+b-1} D_2(t) = 0$ (`0` errors across all $818$ configurations for $b = 1 \dots 12$).
+> 2. **Exact 3-Law Pure Left-Cone Equivalence & Depth-$d$ Right-Cylinder Collapse (`PATH-2`, `nfa_vs_3laws_mismatches == 0`, `depth_d_collapse_mismatches == 0`):**  
+>    - Because $r_1(t) = 1$ makes the OR gate at $x = 1$ opaque to $r_2(t)$ ($r_1(t+1) = 1 \oplus c_t$ deterministically) and $r_1(t+1) = 0$ resets the next step to unconstrained $\{0, 1\}$, a trajectory $(c_t, l_1(t))$ is compatible with the Depth-$1$ Right Cylinder NFA **if and only if** it satisfies three local Pure Left-Cone laws with **zero right-half-plane state**:
+>      - **Law 1 (Opaque Mirror on `1`):** $c_t = 1 \implies c_{t+1} \oplus l_1(t) = 1$,
+>      - **Law 2 (Zero-Run Latch on `00`):** $c_t = 0 \land c_{t+1} = 0 \land l_1(t) = 1 \implies c_{t+2} \oplus l_1(t+1) = 1$,
+>      - **Law 3 (Single-One Bridge on `010`):** $(c_{t-1}, c_t, c_{t+1}) = (0, 1, 0) \land l_1(t-1) = 0 \implies c_{t+2} \oplus l_1(t+1) = 0$.
+>    - Exhaustively verified across all $2,046$ periodic words of periods $\Pi = 1 \dots 10$ (and $8,190$ words of $\Pi = 1 \dots 12$): `0` mismatches between the Depth-$1$ NFA and Laws 1–3, and the Depth-$d$ Right Cylinders for $d = 1, 2, 3, 4$ yield the exact same $18$ survivors for $\Pi = 1 \dots 10$ ($10$ all-zero words $0^\Pi$ eliminated by Theorem 9 + $8$ cyclic shifts of `10`, `100`, `1101110`, `0` Depth-$d$ collapse mismatches).
+>    - Across all $39,606$ non-zero periodic pairs $(t_0, \Pi) \in [0, 200) \times [1, 200)$, adding Laws 2 & 3 to Law 1 strictly accelerates refutation on **$9,895$ pairs** (and **$7,551$ pairs** in Period-$\Pi$ Defect mode), reducing the worst-case post-mismatch horizon from $30$ steps to **$20$ steps** (and from $35$ to **$26$ steps** in Defect mode).
+> 3. **Exact $\mathbb{F}_2[[x]]$ Sierpiński–Mahler Möbius Rationality Involution (`PATH-3`, `mobius_mahler_involution_errors == 0`):**  
+>    - Over $\mathbb{F}_2[[x]] / (x^{2^m})$, for any sequence $f(k)$ and its Mahler transform $\gamma(u) = \bigoplus_{k \subseteq u} f(k)$, their generating series $F(x) = \sum_{k \ge 0} f(k) x^k$ and $\Gamma(y) = \sum_{u \ge 0} \gamma(u) y^u$ are linked by the exact self-inverse Möbius transformation:
+>      $$\Gamma(x) \;\equiv\; \frac{1}{1 + x}\,F\!\left(\frac{x}{1 + x}\right) \pmod{x^{2^m}}, \qquad F(x) \;\equiv\; \frac{1}{1 + x}\,\Gamma\!\left(\frac{x}{1 + x}\right) \pmod{x^{2^m}},$$
+>      verified with `0` errors up to $2^m = 256$ on both parities $p \in \{0, 1\}$ of the Rule 30 center column $c_{2k+p}$. $\square$
+
 ---
 
 ## 7. One-Command Verification
 
-All forty-seven theorems and the causal 64-bit Kogge–Stone solver are verified in [`models/1984-wolfram-conus-textile-rule30.py`](../models/1984-wolfram-conus-textile-rule30.py):
+All forty-eight theorems and the causal 64-bit Kogge–Stone solver are verified in [`models/1984-wolfram-conus-textile-rule30.py`](../models/1984-wolfram-conus-textile-rule30.py):
 
 ```bash
 ./venv/bin/python models/1984-wolfram-conus-textile-rule30.py --self-test-only
